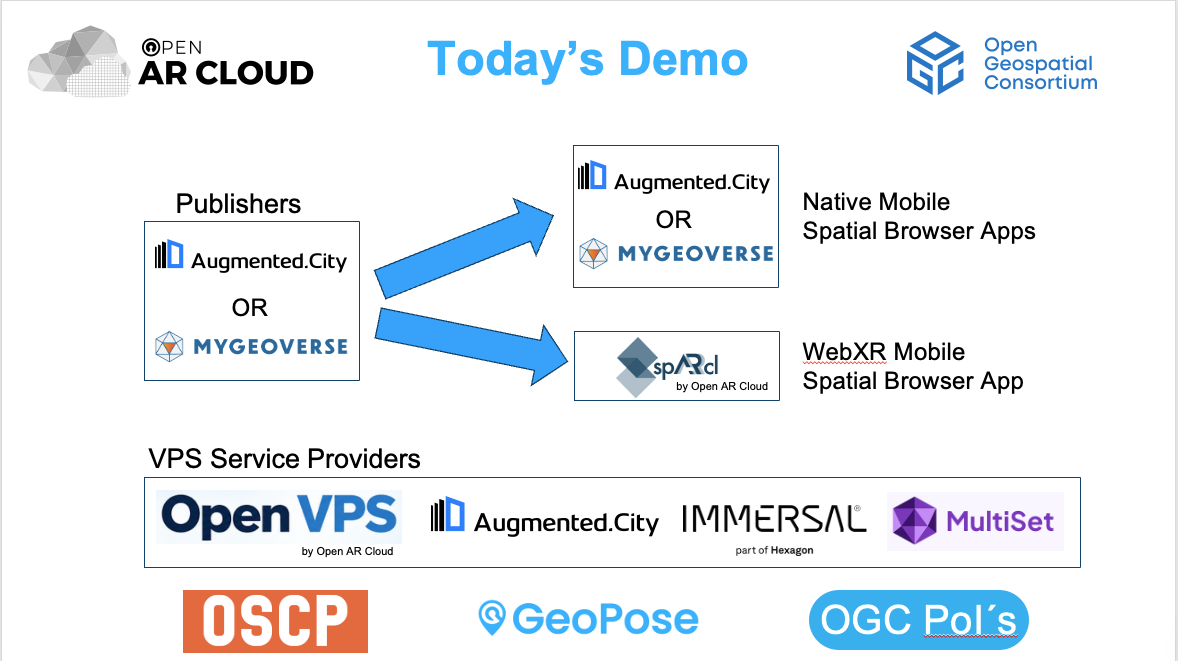
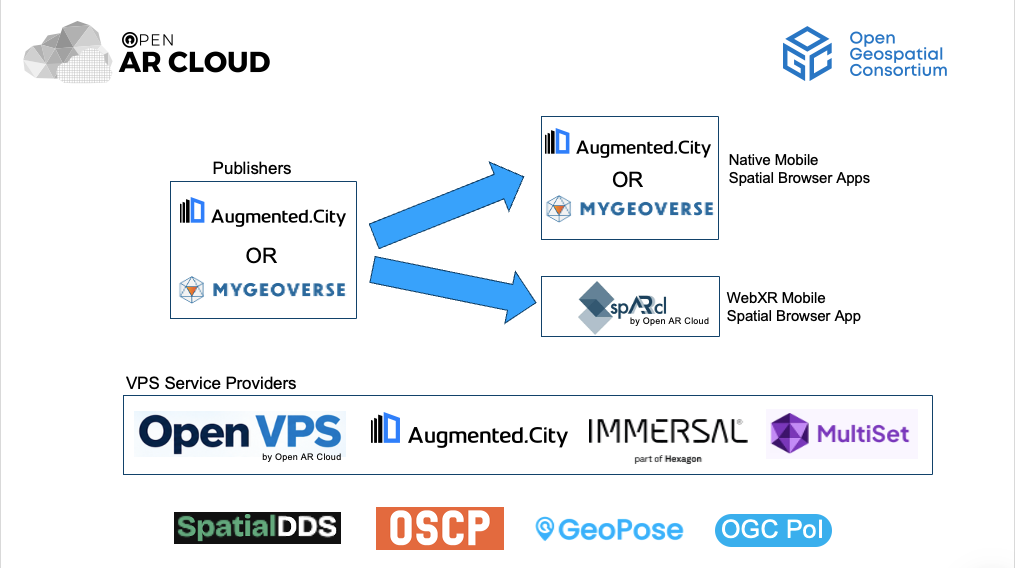
Bari demo page: updated overview diagram (adds SpatialDDS)

diff --git a/src/oscp/ismar2026-demo.md b/src/oscp/ismar2026-demo.md
@@ -44,8 +44,8 @@ The two hands-on demos below showcase selected combinations from this ecosystem.
 ## The Bari Demo Ecosystem
 
 <figure class="demo-chart">
-    <a href="/img/demos/Demo_Chart.png?v=2" target="_blank" rel="noopener">
-        <img src="/img/demos/Demo_Chart.png?v=2" width="1178" height="661" alt="Demo overview: two publishers (Augmented City, MyGeoVerse) feed three spatial browser apps (Augmented City ACO Viewer and MyGeoVerse as native mobile apps, spARcl as a WebXR mobile app), localized by four VPS service providers (OpenVPS, Augmented City, Immersal, MultiSet), built on OSCP, GeoPose and OGC POIs.">
+    <a href="/img/demos/Demo_Chart.png?v=3" target="_blank" rel="noopener">
+        <img src="/img/demos/Demo_Chart.png?v=3" width="1015" height="568" alt="Demo overview: two publishers (Augmented City, MyGeoVerse) feed three spatial browser apps (Augmented City ACO Viewer and MyGeoVerse as native mobile apps, spARcl as a WebXR mobile app), localized by four VPS service providers (OpenVPS, Augmented City, Immersal, MultiSet), built on SpatialDDS, OSCP, GeoPose and OGC POI.">
     </a>
     <figcaption>Tap or click the diagram to open a larger version.</figcaption>
 </figure>
